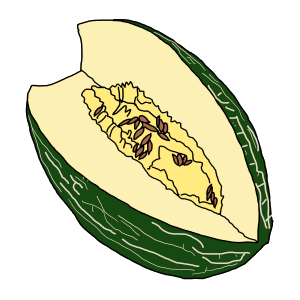
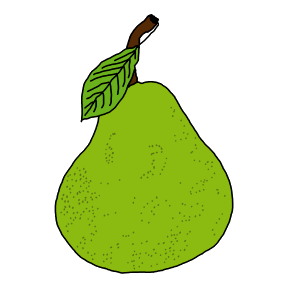
laternative stimulus set

diff --git a/src/config/paths.js b/src/config/paths.js
@@ -18,12 +18,16 @@ export const PATHS = {
   movingObj2Mirrored: "/stimuli/bats2/moving_obj_mirrored.png",
     
   // Objects Layout 1
-    nodeImages1Small: (i) => `/stimuli/collected_pic/node${getObjectNodeId("set1", i)}.png`, // TODO: don't use small images anymore
+  nodeImages1Small: (i) => `/stimuli/collected_pic/node${getObjectNodeId("set1", i)}.png`, // TODO: don't use small images anymore
   nodeImages1: (i) => `/stimuli/collected_pic/node${getObjectNodeId("set1", i)}.png`,
+  // nodeImages1Small: (i) => `/stimuli/collected_pic2/node${getObjectNodeId("set1", i)}.png`, // TODO: don't use small images anymore
+  // nodeImages1: (i) => `/stimuli/collected_pic2/node${getObjectNodeId("set1", i)}.png`,
 
   // Objects Layout 2
   nodeImages2Small: (i) => `/stimuli/collected_pic/node${getObjectNodeId("set2", i)}.png`,
   nodeImages2: (i) => `/stimuli/collected_pic/node${getObjectNodeId("set2", i)}.png`,
+  // nodeImages2Small: (i) => `/stimuli/collected_pic2/node${getObjectNodeId("set2", i)}.png`,
+  // nodeImages2: (i) => `/stimuli/collected_pic2/node${getObjectNodeId("set2", i)}.png`,
 
   dashPath: `/stimuli/other/dash.png`,
   dotPath: `/stimuli/other/dot.png`,

diff --git a/src/trials/createLearnTrialRelQuery.js b/src/trials/createLearnTrialRelQuery.js
@@ -75,7 +75,7 @@ export function createLearnTrialRelQuery(rel, known, trialInd, type) {
     },
 
     on_load: function () {
-      if (!CONFIG.debug) return;
+      if (CONFIG.keyChoice === "NO_KEYS") return;
 
       debugKeyboardListener = jsPsych.pluginAPI.getKeyboardResponse({
         callback_function: () => {
@@ -85,7 +85,7 @@ export function createLearnTrialRelQuery(rel, known, trialInd, type) {
           }
           jsPsych.finishTrial({ response: null, debug_skip: true });
         },
-        valid_responses: "ALL_KEYS",
+        valid_responses: CONFIG.keyChoice,
         rt_method: "performance",
         persist: false,
         allow_held_key: false,

diff --git a/src/trials/arena_trials.js b/src/trials/arena_trials.js
@@ -332,7 +332,7 @@ export function createSpatialPosTrial(layoutType = CONFIG.varType) {
       jsPsych.data.addDataToLastTrial(data);
     },
     button_choices: [""],
-    key_choices: CONFIG.debug ? "ALL_KEYS" : "NO_KEYS",
+    key_choices: CONFIG.keyChoice,
   };
   return spatialpos_trial;
 }
@@ -665,7 +665,7 @@ export function createPosDrawTrial(c_type = "first", layoutType = CONFIG.varType
       data.stim_set = getStimSet(layoutType);
     },
     button_choices: [""],
-    key_choices: CONFIG.debug ? "ALL_KEYS" : "NO_KEYS",
+    key_choices: CONFIG.keyChoice,
 
     prompt: function () {
       const isItalian = getCurrentLanguage() === "it";

diff --git a/src/config.js b/src/config.js
@@ -13,7 +13,7 @@ const baseConfig = {
 
   feedback: true,
 
-  keyChoice: null, // placeholder
+  keyChoice: null,
 };
 
 const configProfiles = {
@@ -42,5 +42,5 @@ export const CONFIG = {
   ...selectedProfile,
 };
 
-CONFIG.keyChoice = CONFIG.debug ? null : "NO_KEYS";
+CONFIG.keyChoice = CONFIG.debug ? "ALL_KEYS" : "NO_KEYS";
 CONFIG.nbLearnPasses = CONFIG.debug ? 1 : 3; // in earlier pilots: 3

diff --git a/src/trials/createDrawingTrial.js b/src/trials/createDrawingTrial.js
@@ -279,7 +279,7 @@ export function createDrawingTrial(nodePos, rel, trialI, learnPassI, type = "") 
       data.stim_set = getStimSet(type);
     },
 
-    key_choices: CONFIG.debug ? "ALL_KEYS" : "NO_KEYS",
+    key_choices: CONFIG.keyChoice,
   };
 
   return drawingTrial;

diff --git a/src/trials/createLearnTrialAnim.js b/src/trials/createLearnTrialAnim.js
@@ -393,7 +393,7 @@ export function createLearnTrialAnim(
       data.nodes_clicked = [...new Set(saveNodesClicked)];
     },
 
-    key_choices: CONFIG.debug ? "ALL_KEYS" : "NO_KEYS",
+    key_choices: CONFIG.keyChoice,
   };
 
   return learnTrialAnim;
